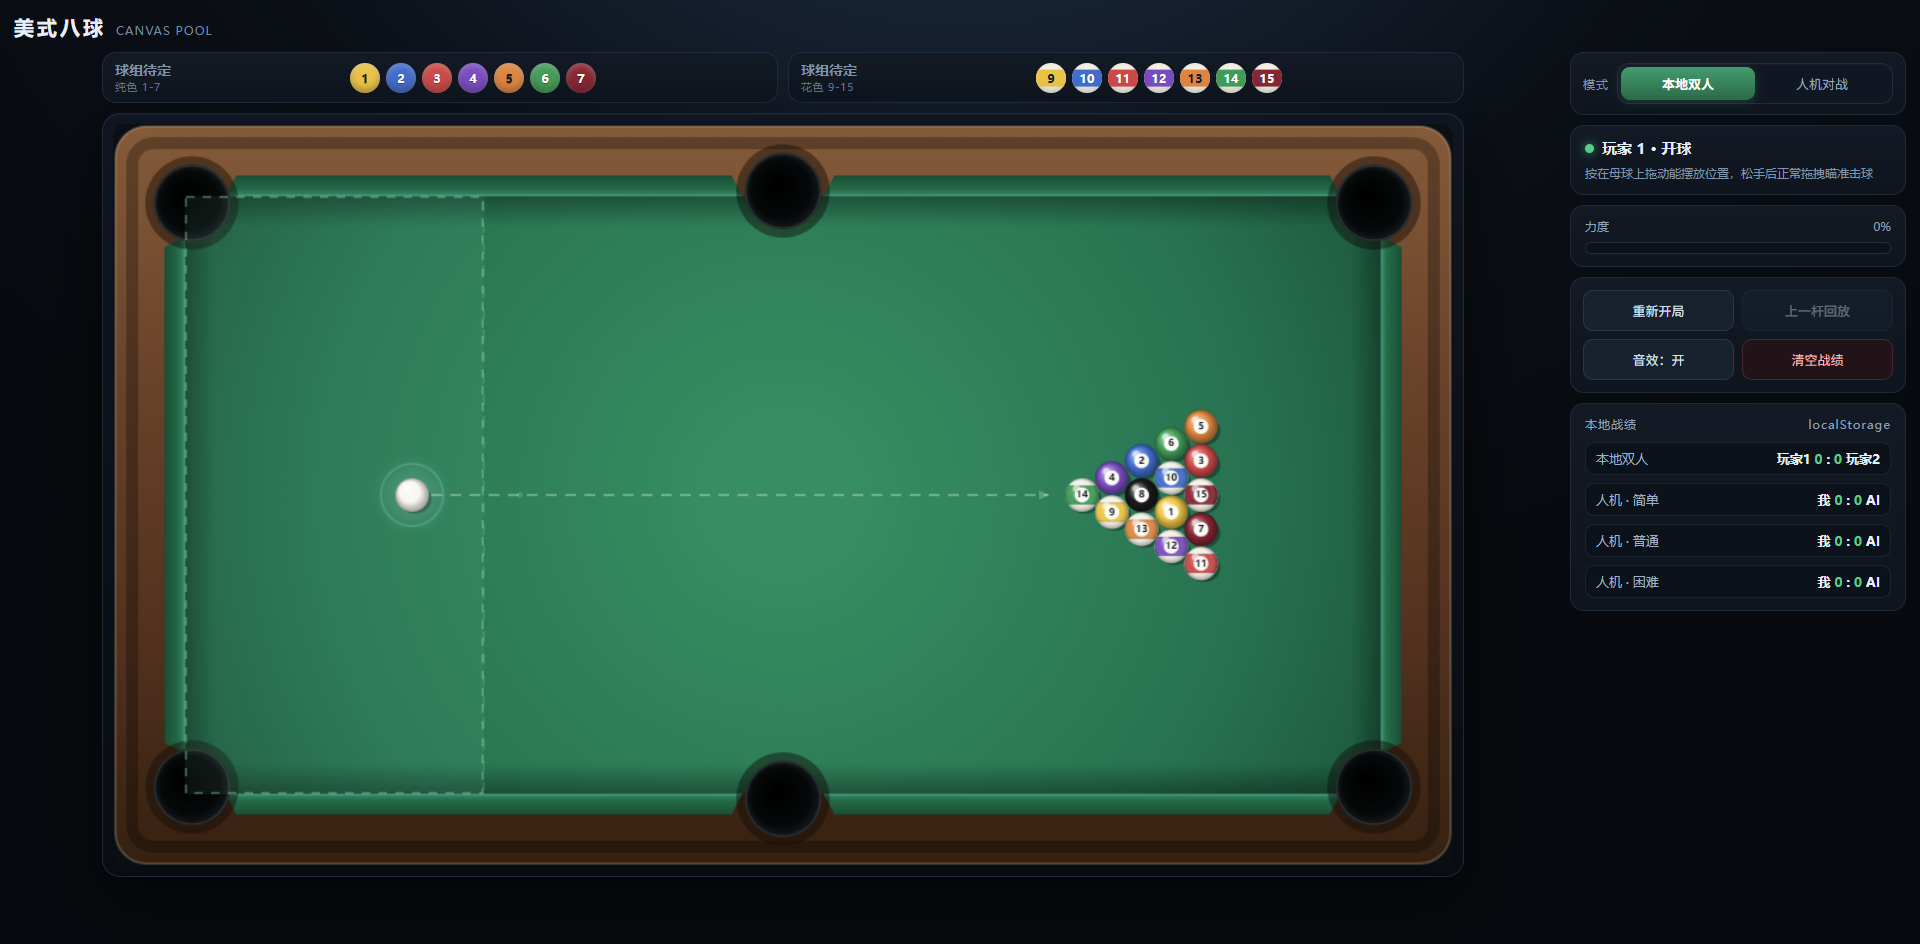
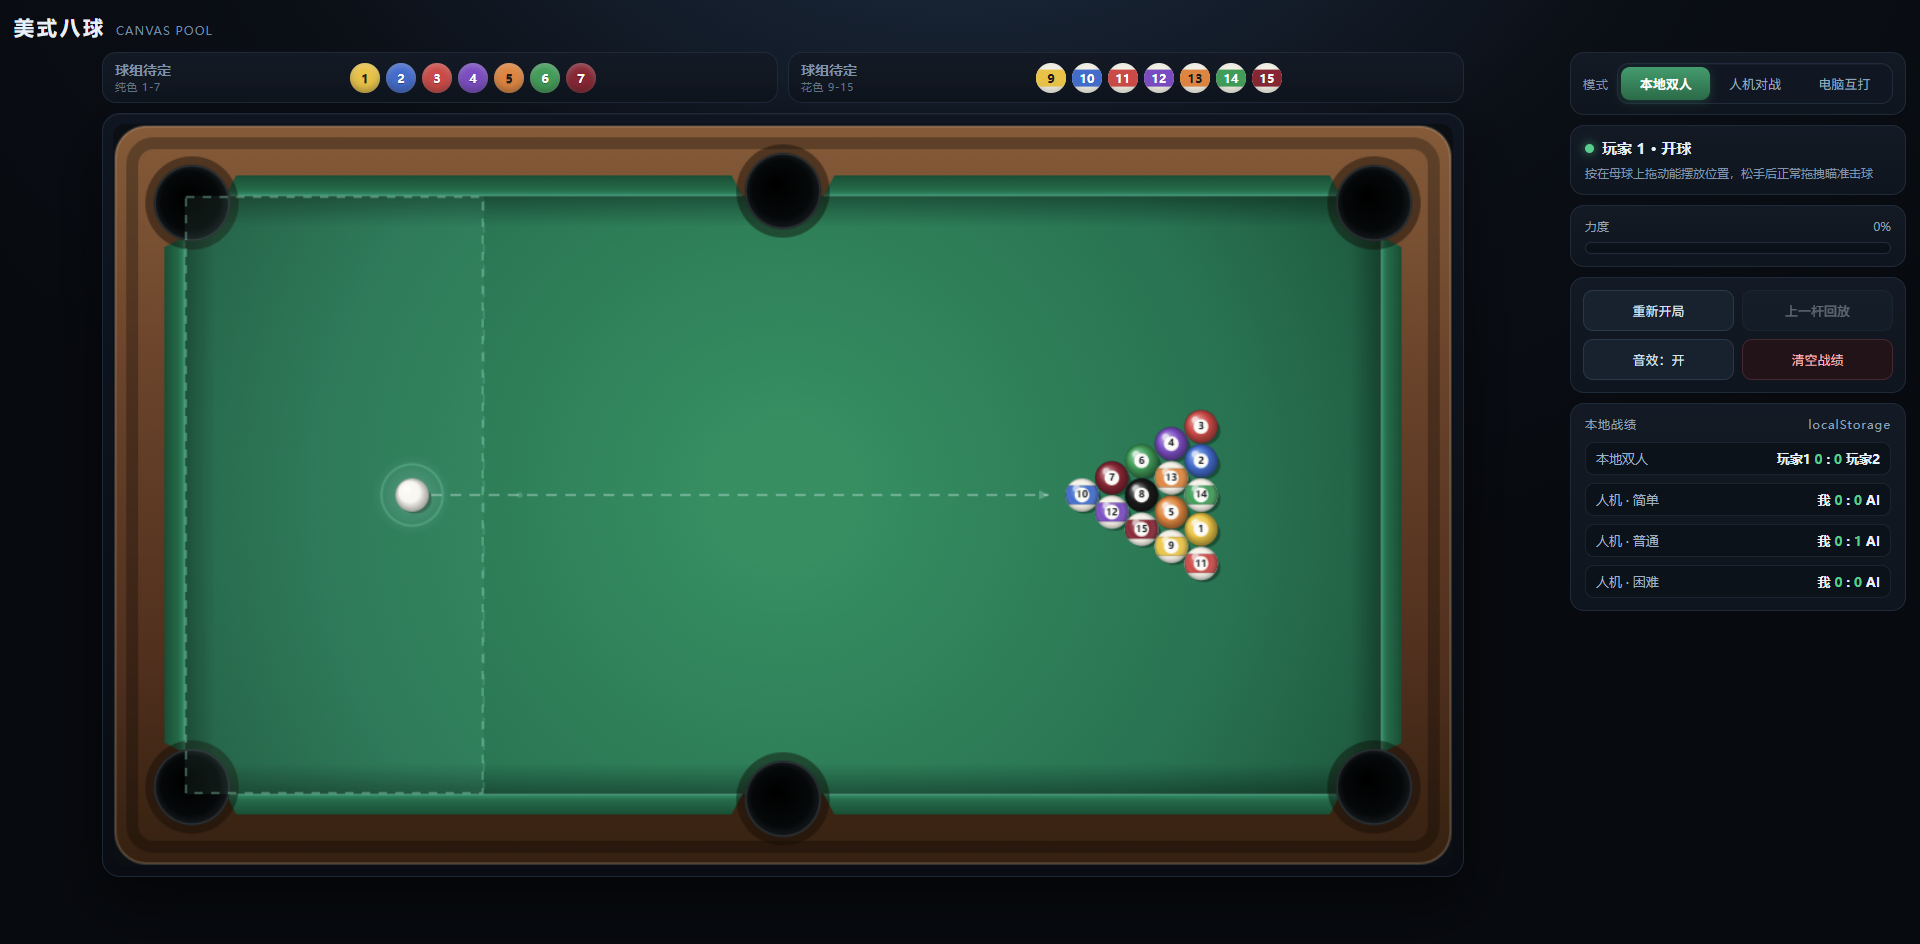
docs: 更新README文件

Changed region(s): [[0.5625, 0.4301, 0.6562, 0.5837], [0.8438, 0.0614, 0.9688, 0.1229]]

diff --git a/README.md b/README.md
@@ -133,9 +133,3 @@ ai.js        AI 回合选球 → 规划 → 带误差出杆 → 释放输入锁
 电脑互打走的是同一条链路，区别只在 `state.turn` 轮到哪一方都算电脑：`ai.js` 的 `maybeStartAI()` 会按 `isAIPlayer(turn)` 排给对应那一方，`endShot()` 结算完再接着排下一杆。
 
 常用可调参数都在 `js/config.js`：`VIEW_W/VIEW_H`（逻辑画布 1120×620）、`TABLE`（台面 1000×500）、`BALL_R`（球半径）、`MAX_SPEED` / `ROLL_DECEL` / `STOP_SPEED`（运动手感）、`POCKET_R` / `CAPTURE_R` / `RAIL_GAP`（袋口宽容度）、`MAX_DRAG`（拖拽满力距离）。
-
-## 设计取舍与边界
-
-- **单文件还是分文件**：早期需求里"CSS / JS 分文件"与"所有代码写在一个 html"冲突，先按单文件实现，后来改成分文件；现在 `index.html` 只留结构与外链，仍然是双击即玩，不需要构建或本地服务器。
-- **手中球限制在开球区**：按需求原文执行。想改成全台任意摆放，把 `js/rules.js` 里 `cueFits()` 的 `state.ballInHand` 边界判断放开即可。
-- **刻意不做**：联机对战、碰撞后轨迹预测、整局长时间回放、分数导出、贴库球 / 推杆等职业判罚、双指缩放旋转手势。
